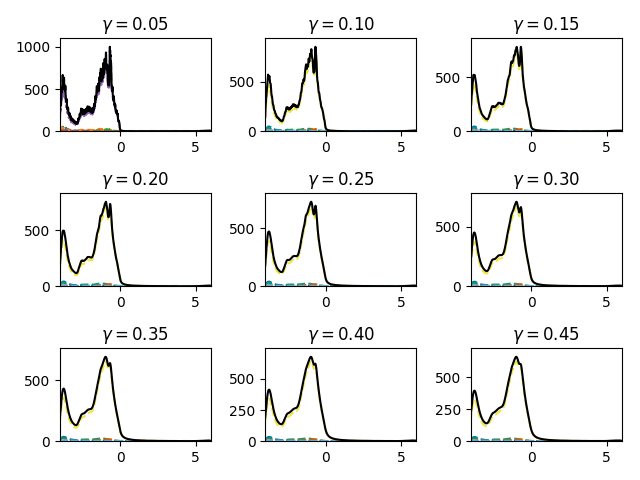
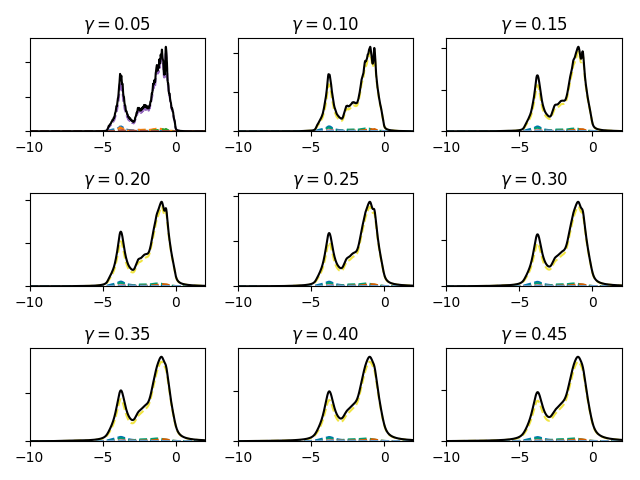
DOC: Nicer range in tiled PDOS demo

diff --git a/docs/source/api_demo_pdos_broadening.py b/docs/source/api_demo_pdos_broadening.py
@@ -6,7 +6,7 @@ import galore
 import galore.plot
 
 vasprun = './test/MgO/vasprun.xml.gz'
-xmin, xmax = (-4, 6)
+xmin, xmax = (-10, 2)
 
 fig = plt.figure()
 
